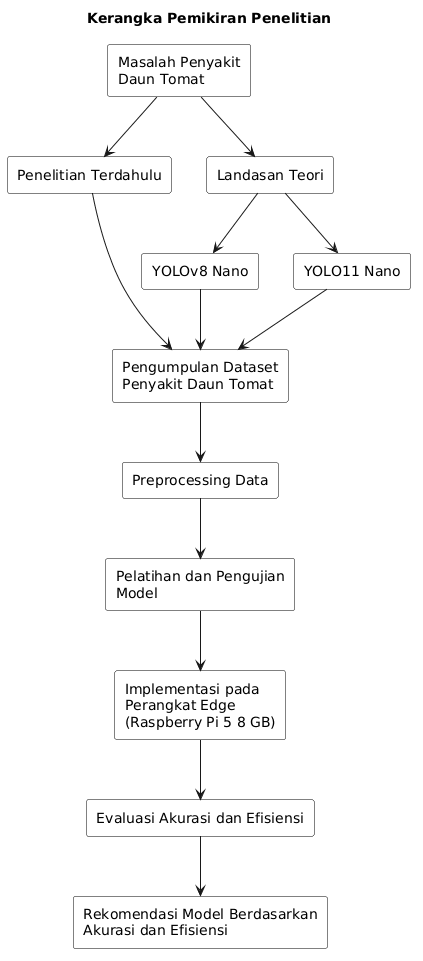
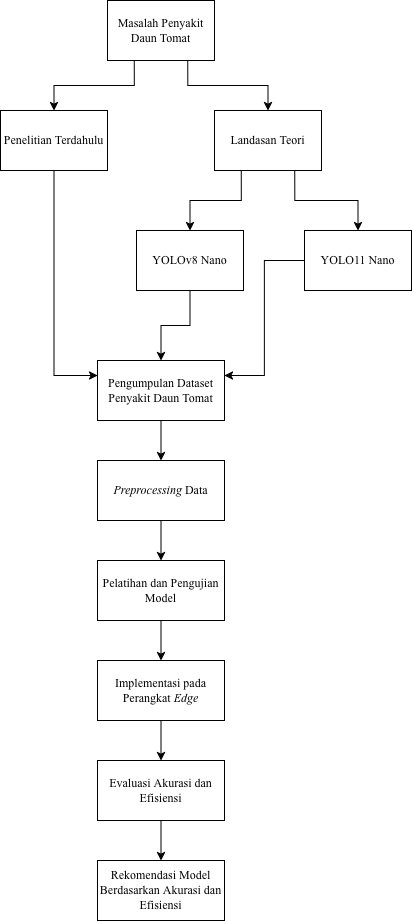
feat: add new references on tomato diseases and include visual aids for better understanding

diff --git a/Project/proposal/konten-utama/b2-bab2.tex b/Project/proposal/konten-utama/b2-bab2.tex
@@ -5,6 +5,7 @@
 
 \chapter[LANDASAN TEORI DAN KERANGKA PEMIKIRAN]{\\ LANDASAN TEORI DAN KERANGKA PEMIKIRAN}
 
+%TODO: revisi bab 2
 \section{Tinjauan Pustaka}
 \begin{sectioncontent}
     \hspace{\parindent}Penelitian mengenai klasifikasi penyakit daun tomat berbasis citra terus berkembang seiring dengan kemajuan \textit{computer vision} dan \textit{deep learning}. Berbagai penelitian terdahulu menunjukkan bahwa citra daun dapat digunakan sebagai dasar untuk mengenali kondisi sehat maupun gejala penyakit tanaman secara otomatis. Pendekatan yang digunakan juga semakin beragam, mulai dari arsitektur CNN umum, model ringan, hingga pendekatan yang diarahkan untuk penerapan pada perangkat dengan sumber daya terbatas.
@@ -38,9 +39,66 @@
 
 \subsection{Penyakit Daun Tomat}
 \begin{subsectioncontent}
+    \begin{figure}[H]
+        \centering
+        \includegraphics[width=0.8\textwidth,height=0.4\textheight]{penyakit-daun-tomat.png}
+        \caption{Jenis Penyakit Daun Tomat}
+        \label{fig:penyakit-daun-tomat}
+    \end{figure}
+
     \hspace{\parindent}Penyakit daun tomat merupakan gangguan pada daun tanaman tomat yang dapat disebabkan oleh jamur, bakteri, virus, maupun faktor lain. Gangguan tersebut umumnya memunculkan gejala visual tertentu, seperti bercak, perubahan warna, nekrosis, deformasi, atau kerusakan jaringan daun. Identifikasi dini terhadap gejala pada daun penting dilakukan karena daun sering menjadi indikator awal adanya gangguan kesehatan tanaman yang dapat memengaruhi pertumbuhan dan hasil panen (\citealp[hlm. 1--3 dan 7]{jelali2024tomatoreview}; \citealp[hlm. 192--193]{das2025tomatoreview}; \citealp[hlm. 1]{nyawose2025plantreview}).
 
     Dalam penelitian berbasis citra, gejala visual pada daun tomat dapat dipelajari sebagai pola yang mewakili kelas penyakit tertentu. Dengan kata lain, citra daun tidak hanya dilihat sebagai gambar, tetapi juga sebagai data yang mengandung karakteristik visual untuk proses klasifikasi. Oleh karena itu, daun tomat menjadi objek yang sesuai untuk tugas klasifikasi citra, terutama apabila dataset yang digunakan telah memiliki label kelas yang jelas dan proses akuisisi citra dilakukan secara memadai (\citealp[hlm. 1]{imtiaz2025dataset}; \citealp[hlm. 1--2]{oni2025dataset}; \citealp[hlm. 1--2]{liu2025dataset}).
+
+    Beberapa penyakit daun tomat memiliki ciri visual yang berbeda-beda, seperti bercak, perubahan warna, nekrosis, hingga keriting daun. Ringkasan penyakit dan ciri visualnya disajikan pada Tabel~\ref{tab:penyakit-daun-tomat}.
+    
+    {\small
+    \setlength{\tabcolsep}{4pt}
+    \renewcommand{\arraystretch}{1.25}
+
+    \begin{longtable}{|p{0.7cm}|p{3.6cm}|p{7cm}|p{2.8cm}|}
+        \caption{Jenis Penyakit Daun Tomat dan Ciri-Ciri Visualnya}
+        \label{tab:penyakit-daun-tomat} \\
+        \hline
+        No. & Penyakit/Kelas & Ciri-ciri visual pada daun & Sumber \\
+        \hline
+        \endfirsthead
+
+        \caption[]{Jenis Penyakit Daun Tomat dan Ciri-Ciri Visualnya (lanjutan)} \\
+        \hline
+        No. & Penyakit/Kelas & Ciri-ciri visual pada daun & Sumber \\
+        \hline
+        \endhead
+
+        \hline
+        \endfoot
+
+        1 & \textit{Yellow Curl Virus}
+        & Daun muda mengalami klorosis pada bagian tepi maupun antar tulang daun, menggulung ke atas atau ke bawah, tampak berkerut, serta berukuran lebih kecil. Pada infeksi berat, tanaman dapat terlihat kerdil dan rimbun akibat ruas batang yang memendek.
+        & \citep{murray2023tylcv} \\
+        \hline
+
+        2 & \textit{Early Blight}
+        & Gejala umumnya muncul pada daun tua atau daun bagian bawah. Bercak berwarna cokelat hingga kehitaman, berbentuk bulat sampai tidak beraturan, dan sering memiliki pola cincin konsentris menyerupai target. Area di sekitar bercak dapat menguning, kemudian daun mengering dan gugur.
+        & \citep{clemson2025tomatoDiseases} \\
+        \hline
+
+        3 & \textit{Late Blight}
+        & Daun menunjukkan bercak kecil berwarna gelap dan tampak basah. Bercak dapat membesar dengan cepat menjadi lesi tidak beraturan berwarna cokelat sampai kehitaman. Pada kondisi lembap, bagian bawah daun dapat ditumbuhi lapisan putih seperti jamur, kemudian daun mengalami pencokelatan, layu, dan mati.
+        & \citep{clemson2025tomatoDiseases} \\
+        \hline
+
+        4 & \textit{Leaf Mold}
+        & Gejala awal berupa bercak hijau pucat atau kekuningan pada permukaan atas daun, terutama pada daun tua. Pada kondisi lembap, permukaan bawah daun tertutup pertumbuhan spora berwarna abu-abu hingga seperti beludru. Jika infeksi berat, bercak dapat menyatu dan menyebabkan jaringan daun mati.
+        & \citep{clemson2025tomatoDiseases} \\
+        \hline
+
+        5 & \textit{Septoria Leaf Spot}
+        & Gejala ditandai dengan banyak bercak kecil berbentuk bulat pada daun, terutama daun tua bagian bawah. Bercak memiliki tepi gelap dengan bagian tengah berwarna krem, abu-abu, atau kecokelatan. Pada bagian tengah bercak dapat terlihat titik-titik hitam kecil sebagai struktur penghasil spora. Daun yang terinfeksi berat dapat menguning, mengering, dan gugur.
+        & \citep{clemson2025tomatoDiseases,pandey2024septoria} \\
+        \hline
+    \end{longtable}
+    }
 \end{subsectioncontent}
 
 \subsection{Klasifikasi Citra}
@@ -57,7 +115,7 @@
     Salah satu arsitektur yang umum digunakan dalam klasifikasi citra adalah \textit{Convolutional Neural Network} (CNN). CNN memanfaatkan operasi konvolusi untuk menangkap pola spasial pada citra, seperti tepi, tekstur, warna, dan bentuk. Pola-pola tersebut kemudian diproses lebih lanjut untuk menghasilkan keputusan klasifikasi. Dalam penelitian penyakit tanaman, CNN banyak digunakan karena mampu mengenali gejala visual pada daun yang sering muncul dalam bentuk bercak, perubahan warna, atau pola tekstur tertentu (\citealp[hlm. 1--3]{jelali2024tomatoreview}; \citealp[hlm. 192--193 dan 199--200]{das2025tomatoreview}; \citealp[hlm. 1--2 dan 7--9]{sun2024tomatoclassification}).
 \end{subsectioncontent}
 
-\subsection{Keluarga Model YOLO}
+\subsection{YOLO}
 \begin{subsectioncontent}
     \hspace{\parindent}YOLO (\textit{You Only Look Once}) merupakan keluarga model \textit{deep learning} yang awalnya dikenal luas pada tugas \textit{object detection}. Model ini banyak digunakan karena dirancang untuk menghasilkan prediksi secara cepat dalam satu proses inferensi. Perkembangan YOLO dari versi awal hingga versi yang lebih baru menunjukkan adanya peningkatan pada efisiensi, akurasi, dan fleksibilitas penggunaan (\citealp[hlm. 1680--1683]{terven2023yolo}; \citealp[hlm. 1--3]{ali2024yoloframework}; \citealp[hlm. 1--3]{murat2025yolo}).
 
